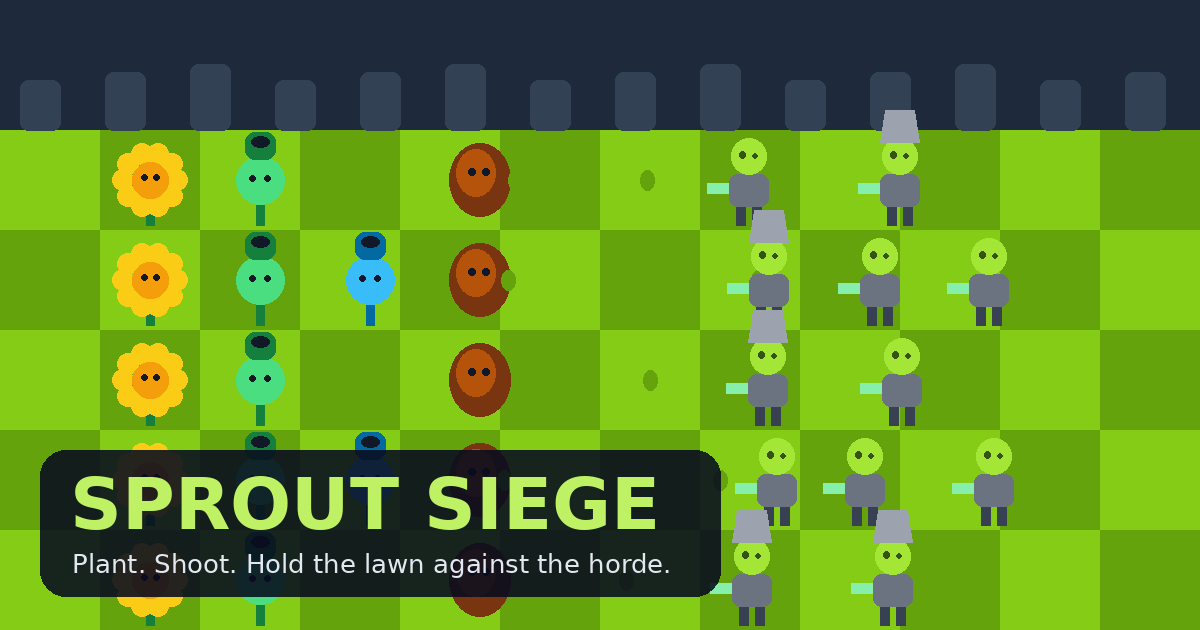
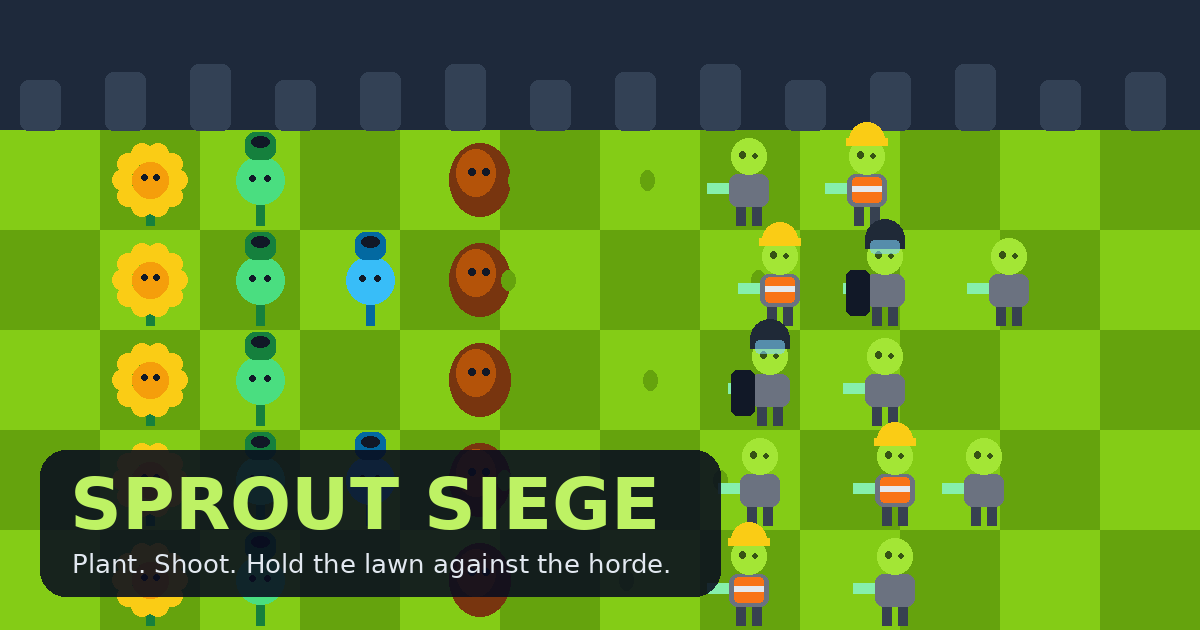
Rename and redraw the hat zombies: Roadworker and Riot Zombie
Conehead becomes a Roadworker in a yellow hard hat and reflective
vest; Buckethead becomes a Riot Zombie with a visored helmet and a
riot shield. Almanac, README and share image updated.

Changed region(s): [[0.5858, 0.1508, 0.8633, 0.9952], [0.74, 0.9651, 0.7708, 0.9952]]

diff --git a/game.js b/game.js
@@ -30,9 +30,9 @@ const PLANTS = {
 };
 const ZOMBIES = {
   basic:  { name: 'Shambler', hp: 100,  speed: 9,  dmg: 35,   r: 13 },
-  cone:   { name: 'Conehead', hp: 260,  speed: 9,  dmg: 35,   r: 13 },
+  worker: { name: 'Roadworker', hp: 260,  speed: 9,  dmg: 35,   r: 13 },
   runner: { name: 'Sprinter', hp: 80,   speed: 22, dmg: 35,   r: 11 },
-  bucket: { name: 'Buckethead', hp: 650, speed: 8, dmg: 35,   r: 13 },
+  riot:   { name: 'Riot Zombie', hp: 650, speed: 8, dmg: 35,   r: 13 },
   giant:  { name: 'Hulk',     hp: 1600, speed: 6,  dmg: 0,    r: 19, smash: true },
 };
 
@@ -76,11 +76,11 @@ function makeLevel(n) {
   const rng = mulberry32(n * 31337 + 7);
   const pick = arr => arr[Math.floor(rng() * arr.length)];
   const pool = ['basic', 'basic', 'basic'];
-  if (n >= 2) pool.push('cone', 'cone');
+  if (n >= 2) pool.push('worker', 'worker');
   if (n >= 3) pool.push('runner');
-  if (n >= 4) pool.push('bucket');
+  if (n >= 4) pool.push('riot');
   if (n >= 6) pool.push('giant');
-  if (n >= 8) pool.push('giant', 'bucket', 'runner');
+  if (n >= 8) pool.push('giant', 'riot', 'runner');
   const total = 8 + n * 4;
   const sched = [];
   let t = 14;
@@ -497,8 +497,21 @@ function drawZombie(c, z, t) {
   c.fillStyle = '#ef4444'; c.beginPath(); c.arc(-3.5, -16, 1, 0, TAU); c.fill();
   c.strokeStyle = '#365314'; c.lineWidth = 1.5; c.beginPath(); c.moveTo(-4, -9); c.lineTo(5, -10); c.stroke();
   c.fillStyle = '#f5f5f4'; c.fillRect(-2, -10, 2, 2); c.fillRect(2, -10.5, 2, 2);
-  if (z.type === 'cone') { c.fillStyle = '#f97316'; c.beginPath(); c.moveTo(-9, -22); c.lineTo(0, -42); c.lineTo(9, -22); c.fill(); c.fillStyle = '#fdba74'; c.fillRect(-9, -24, 18, 3); }
-  if (z.type === 'bucket') { c.fillStyle = '#9ca3af'; c.beginPath(); c.moveTo(-11, -22); c.lineTo(-8, -40); c.lineTo(8, -40); c.lineTo(11, -22); c.fill(); c.fillStyle = '#d1d5db'; c.fillRect(-11, -24, 22, 3); }
+  if (z.type === 'worker') {
+    // reflective vest over the body, yellow hard hat with a brim
+    c.fillStyle = '#f97316'; roundRect(c, -9, -7, 18, 15, 3); c.fill(); c.fillStyle = '#e5e7eb'; c.fillRect(-9, -2, 18, 3); c.fillStyle = '#6b7280'; c.fillRect(-2, -7, 4, 15);
+    c.fillStyle = '#facc15'; c.beginPath(); c.arc(0, -19, 11, Math.PI, 0); c.fill(); c.fillRect(-13, -20, 26, 4);
+    c.fillStyle = '#fef08a'; c.fillRect(-2, -29, 4, 9); c.fillStyle = '#ca8a04'; c.fillRect(-13, -17, 26, 2);
+  }
+  if (z.type === 'riot') {
+    // riot helmet with a visor, and a shield held out in front
+    c.fillStyle = '#1f2937'; c.beginPath(); c.arc(0, -17, 12, Math.PI, 0); c.fill(); c.fillRect(-12, -17, 24, 6);
+    c.fillStyle = 'rgba(125,211,252,0.55)'; roundRect(c, -9, -17, 18, 9, 3); c.fill();
+    c.fillStyle = '#374151'; c.fillRect(-12, -11, 24, 2);
+    c.fillStyle = '#111827'; roundRect(c, -22, -10, 14, 28, 4); c.fill();
+    c.fillStyle = 'rgba(148,163,184,0.45)'; roundRect(c, -19, -7, 8, 22, 3); c.fill();
+    c.fillStyle = '#9ca3af'; c.fillRect(-16, 0, 3, 6);
+  }
   if (z.type === 'runner') { c.fillStyle = '#ef4444'; c.fillRect(-10, -20, 20, 3); }
   if (z.slow > 0) { c.fillStyle = 'rgba(125,211,252,0.45)'; c.beginPath(); c.arc(0, -8, 18, 0, TAU); c.fill(); }
   c.restore();
@@ -715,7 +728,7 @@ function showMenu() {
   $('btn-autosun').textContent = save.autoSun ? '☀ Auto-collect sun: ON' : '☀ Auto-collect sun: OFF';
   let html = '';
   for (const k in PLANTS) { const P = PLANTS[k]; html += `<div class="item"><img src="${seedIcon(k)}" alt=""><div class="info"><b>${P.name} <em>${P.cost} sun · level ${P.unlock}</em></b><span>${P.desc}</span></div></div>`; }
-  for (const k in ZOMBIES) { const Z = ZOMBIES[k]; html += `<div class="item z"><div class="info"><b>🧟 ${Z.name} <em>${Z.hp} hp</em></b><span>${k === 'giant' ? 'Smashes plants flat instead of eating them.' : k === 'runner' ? 'Fast, but flimsy.' : k === 'cone' ? 'A traffic cone for a helmet.' : k === 'bucket' ? 'A bucket. Very tough.' : 'Your everyday shambler.'}</span></div></div>`; }
+  for (const k in ZOMBIES) { const Z = ZOMBIES[k]; html += `<div class="item z"><div class="info"><b>🧟 ${Z.name} <em>${Z.hp} hp</em></b><span>${k === 'giant' ? 'Smashes plants flat instead of eating them.' : k === 'runner' ? 'Fast, but flimsy.' : k === 'worker' ? 'Hard hat and vest. Takes a beating.' : k === 'riot' ? 'Helmet, visor and a riot shield. Very tough.' : 'Your everyday shambler.'}</span></div></div>`; }
   $('almanac').innerHTML = html;
   showScreen('menu');
 }

diff --git a/tools/make_og.py b/tools/make_og.py
@@ -53,10 +53,16 @@ def zombie(d, x, y, s, hat=None):
     d.ellipse((x - 11 * s, y - 32 * s, x + 11 * s, y - 10 * s), fill="#a3e635")
     d.ellipse((x - 6 * s, y - 24 * s, x - 2 * s, y - 20 * s), fill="#365314")
     d.ellipse((x + 2 * s, y - 23 * s, x + 5 * s, y - 20 * s), fill="#365314")
-    if hat == "cone":
-        d.polygon([(x - 10 * s, y - 30 * s), (x, y - 52 * s), (x + 10 * s, y - 30 * s)], fill="#f97316")
-    if hat == "bucket":
-        d.polygon([(x - 12 * s, y - 30 * s), (x - 9 * s, y - 50 * s), (x + 9 * s, y - 50 * s), (x + 12 * s, y - 30 * s)], fill="#9ca3af")
+    if hat == "worker":
+        d.rounded_rectangle((x - 9 * s, y - 8 * s, x + 9 * s, y + 8 * s), int(3 * s), fill="#f97316")
+        d.rectangle((x - 9 * s, y - 2 * s, x + 9 * s, y + 1 * s), fill="#e5e7eb")
+        d.pieslice((x - 11 * s, y - 42 * s, x + 11 * s, y - 20 * s), 180, 360, fill="#facc15")
+        d.rectangle((x - 13 * s, y - 32 * s, x + 13 * s, y - 28 * s), fill="#facc15")
+    if hat == "riot":
+        d.pieslice((x - 12 * s, y - 44 * s, x + 12 * s, y - 20 * s), 180, 360, fill="#1f2937")
+        d.rectangle((x - 12 * s, y - 32 * s, x + 12 * s, y - 26 * s), fill="#1f2937")
+        d.rounded_rectangle((x - 9 * s, y - 31 * s, x + 9 * s, y - 23 * s), int(3 * s), fill=(125, 211, 252, 150))
+        d.rounded_rectangle((x - 24 * s, y - 12 * s, x - 10 * s, y + 16 * s), int(4 * s), fill="#111827")
 
 
 def card():
@@ -86,7 +92,7 @@ def card():
     for r in range(5):
         for k in range(2 + (r % 2)):
             x = 760 + k * 120 + random.randint(-25, 25)
-            zombie(d, x, 190 + r * 100, 1.6, hat=random.choice([None, None, "cone", "bucket"]))
+            zombie(d, x, 190 + r * 100, 1.6, hat=[None, "worker", "riot", None, "worker"][(r + k) % 5])
     # title banner
     banner = Image.new("RGBA", (W, H), (0, 0, 0, 0))
     bd = ImageDraw.Draw(banner)

diff --git a/README.md b/README.md
@@ -31,7 +31,7 @@ No install, no build step, no dependencies. One HTML page plus one JavaScript fi
 
 ## Zombies
 
-Shambler, Conehead (level 2), Sprinter (level 3), Buckethead (level 4), and the plant-smashing Hulk (level 6). Levels are generated from a seed, so each level plays the same way every time.
+Shambler, Roadworker (level 2), Sprinter (level 3), Riot Zombie (level 4), and the plant-smashing Hulk (level 6). Levels are generated from a seed, so each level plays the same way every time.
 
 ## Running locally
 
